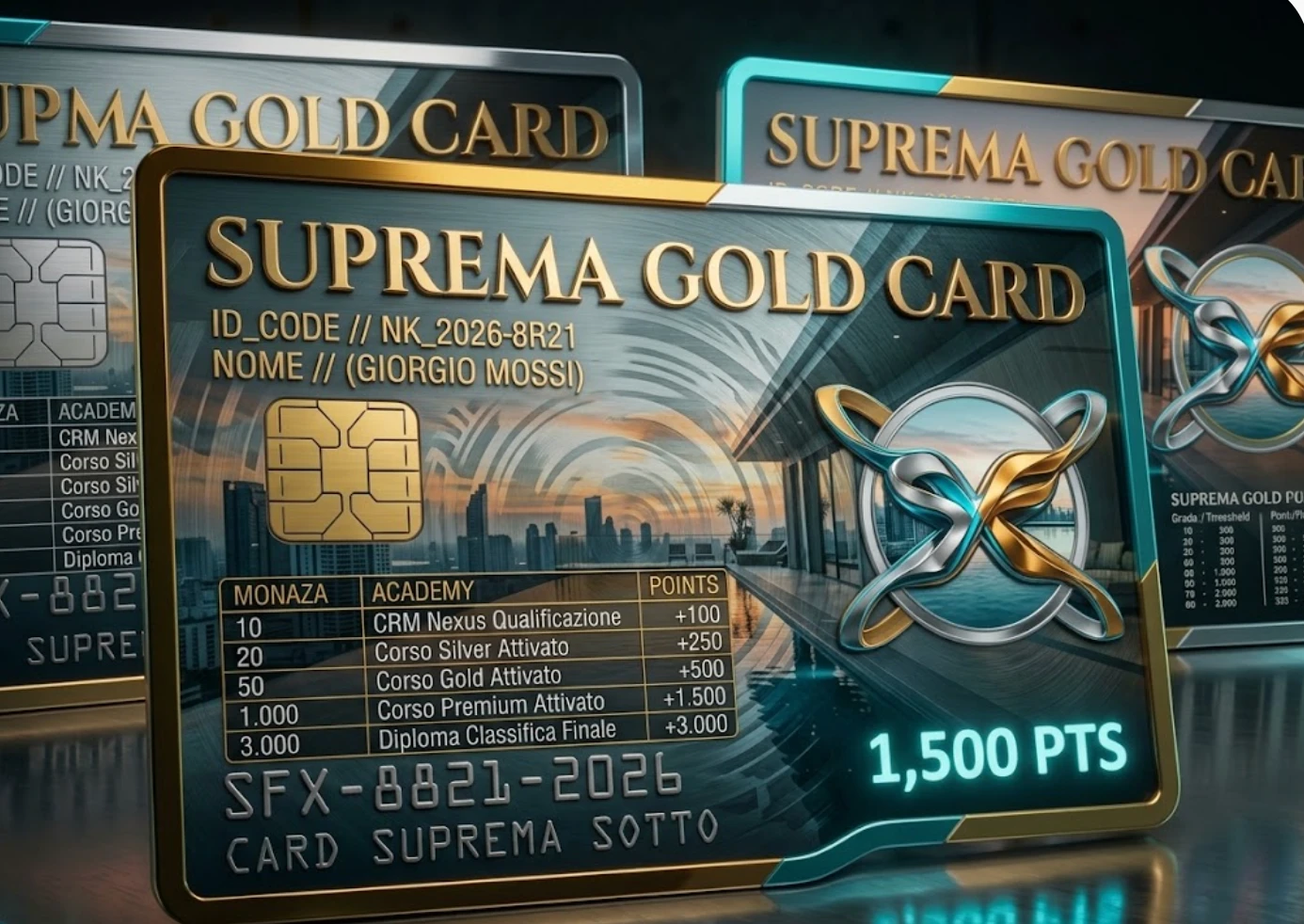
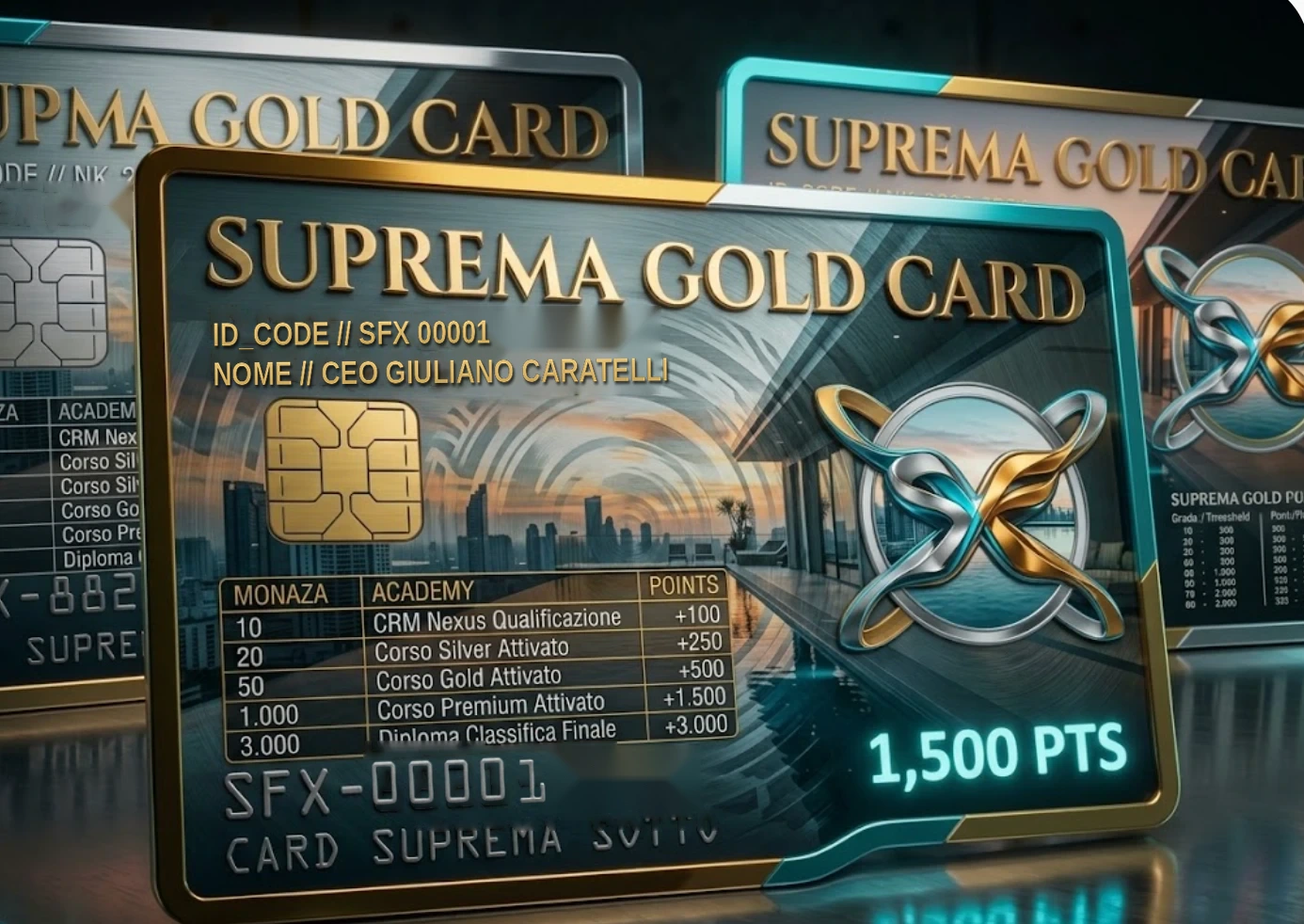
Versione B del primo schermo, storia completa, come funzionano i corsi, Gold Card con Tally
Claude-Session: https://claude.ai/code/session_019FZANnsANu3tLtzJ3nE7DX

Changed region(s): [[0.1551, 0.3055, 0.5274, 0.4277], [0.2792, 0.7943, 0.5584, 0.9165], [0.0, 0.1833, 0.1241, 0.2444]]

diff --git a/index.html b/index.html
@@ -325,6 +325,48 @@ body{top:0!important}
 body{padding-bottom:78px}
 .radio,.chatbox{bottom:calc(76px + env(safe-area-inset-bottom,0px))}
 }
+/* VERSIONE B: primo schermo riprogettato */
+body::before{animation-duration:14s}
+.bar .shine,.dock .shine{animation:none}
+.hb{display:grid;grid-template-columns:minmax(0,1.2fr) minmax(0,.8fr);gap:56px;max-width:1280px;margin:0 auto;padding:22px 40px 8px;align-items:center}
+.hb-left{min-width:0}
+.hb-eye{font-family:'JetBrains Mono',monospace;font-size:12px;letter-spacing:.18em;color:var(--gold-deep)}
+.hb .wordmark{font-size:clamp(36px,4.5vw,70px);line-height:1;margin:8px 0 6px;white-space:nowrap}
+.hb .tagline{margin:0;font-size:clamp(15px,1.5vw,22px)}
+.hb-lead{margin:16px 0 0;font-size:clamp(16px,1.35vw,20px);line-height:1.5;color:var(--ink);max-width:40ch}
+.hb-quote{margin:18px 0;padding:14px 18px;border-left:3px solid var(--gold);background:rgba(255,255,255,.6);border-radius:0 18px 18px 0;font-size:16px;line-height:1.5;max-width:56ch}
+.hb-quote .hl{display:block;color:var(--gold-deep);font-weight:800;margin-bottom:4px}
+.hb-quote cite{display:block;margin-top:8px;font-style:normal;font-family:'JetBrains Mono',monospace;font-size:12px;color:var(--muted)}
+.hb-quote cite button{background:none;border:0;padding:0;color:var(--gold-deep);font:inherit;font-weight:700;cursor:pointer;text-decoration:underline;text-underline-offset:3px}
+.hb-cta{display:flex;gap:12px;flex-wrap:wrap;margin:4px 0 16px}
+.btn.big{padding:15px 26px;font-size:16px}
+.btn.big2{padding:15px 22px;font-size:15px;cursor:pointer;font-family:inherit}
+.hb-trust{list-style:none;padding:0;margin:0;display:flex;gap:18px;flex-wrap:wrap;font-size:13px;font-weight:600;color:var(--ink)}
+.hb-trust li::before{content:'✓';color:#1F9D6E;font-weight:800;margin-right:6px}
+.hb-right{display:grid;gap:10px;justify-items:center;min-width:0}
+.hb-frame{position:relative;isolation:isolate;padding:4px;border-radius:32px;width:min(400px,100%)}
+.hb-frame::before{content:'';position:absolute;inset:0;border-radius:32px;z-index:-1;background:conic-gradient(from var(--a),var(--gold),var(--cyan),var(--emerald),var(--gold-light),var(--gold));animation:spin 16s linear infinite}
+.hb-frame .vwrap{border-radius:28px;overflow:hidden;height:auto;min-height:0}
+.hb-frame .vwrap video,.hb-frame video{display:block;width:100%;height:auto;aspect-ratio:4/5;object-fit:cover;border-radius:28px;background:#000}
+.hb-badge{position:absolute;right:-16px;bottom:-16px;width:88px;height:88px;border-radius:50%;object-fit:cover;border:3px solid var(--gold);box-shadow:0 10px 26px rgba(11,25,44,.35);z-index:2}
+.hb-courses{display:grid;grid-template-columns:repeat(3,minmax(0,1fr));gap:18px;max-width:1280px;margin:18px auto 0;padding:0 40px}
+.hb-courses .course{position:relative;isolation:isolate;overflow:hidden;min-height:150px;border:1.5px solid var(--gold);border-radius:24px;color:#fff;text-align:left;cursor:pointer;font:inherit;box-shadow:0 12px 30px rgba(11,25,44,.22);transition:transform .3s,box-shadow .3s}
+.hb-courses .course:hover,.hb-courses .course:focus-visible{transform:translateY(-4px);box-shadow:0 18px 40px rgba(11,25,44,.32),0 0 18px rgba(0,240,255,.35);outline:none}
+@media (max-width:1100px){.hb{gap:32px;padding:18px 24px}}
+@media (max-width:900px){.hb{grid-template-columns:1fr;padding:12px 14px}.hb-right{order:-1}.hb-courses{grid-template-columns:1fr;padding:0 14px}.hb-frame{width:min(360px,100%)}.hb-badge{width:64px;height:64px;right:-8px;bottom:-8px}.hb .wordmark{font-size:8.4vw}.hb-trust{gap:10px}}
+/* B2: logo in loop accanto al titolo */
+.hb-brand{display:flex;align-items:center;gap:20px;margin:10px 0 0}
+.hb-logo{position:relative;flex:none;width:clamp(96px,9.4vw,140px);aspect-ratio:1;border-radius:26px;overflow:hidden;isolation:isolate;box-shadow:0 10px 28px rgba(11,25,44,.28)}
+.hb-logo::before{content:'';position:absolute;inset:0;z-index:2;border-radius:26px;padding:3px;background:conic-gradient(from var(--a),var(--gold),var(--cyan),var(--emerald),var(--gold-light),var(--gold));-webkit-mask:linear-gradient(#000 0 0) content-box,linear-gradient(#000 0 0);-webkit-mask-composite:xor;mask-composite:exclude;animation:spin 16s linear infinite;pointer-events:none}
+.hb-logo .lg{position:absolute;inset:0;width:100%;height:100%;object-fit:cover;opacity:0;transition:opacity 1.2s ease;background:#0B192C}
+.hb-logo .lg.on{opacity:1}
+.hb-titles{min-width:0}
+.hb .hb-titles .wordmark{font-size:clamp(30px,4.05vw,64px);white-space:nowrap;margin:0 0 6px}
+.hb .hb-titles .tagline{font-size:clamp(13px,1.45vw,21px)}
+@media (max-width:900px){.hb-brand{gap:12px}.hb-logo{width:64px;border-radius:16px}.hb .hb-titles .wordmark{font-size:6.6vw}.hb .hb-titles .tagline{font-size:3.1vw}}
+.hb{grid-template-columns:minmax(0,1.3fr) minmax(0,.7fr)}
+.hb .hb-titles .wordmark{font-size:clamp(28px,3.75vw,54px);padding-right:.08em}
+@media (max-width:900px){.hb{grid-template-columns:1fr}.hb .hb-titles .wordmark{font-size:6.6vw}}
 </style>
 </head>
 <body>
@@ -344,43 +386,31 @@ body{padding-bottom:78px}
 
 <!-- SEC-00 -->
 <section class="sec" id="SEC-00" style="padding:0;border-bottom:none;background:none">
-  <div class="s00">
-    <div class="hero-left">
-      <div class="hero-head">
-        <div class="tag" style="font-size:12px;letter-spacing:.12em">DREAM DEFENSE SYSTEM // 2026</div>
-        <h1 class="wordmark">SUPREMA FUTURE X</h1>
-        <p class="tagline">INSIEME GUIDIAMO IL TUO DOMANI</p>
+  <div class="hb">
+    <div class="hb-left">
+      <div class="hb-eye">SUPREMA ACADEMY · COMMUNITY · CRESCITA PERSONALE</div>
+      <div class="hb-brand">
+        <div class="hb-logo" id="logoLoop" role="img" aria-label="Logo Suprema Future X"><img class="lg on" src="media/logo-globo.webp" alt=""><img class="lg" src="media/logo-studio.jpg" alt=""><img class="lg" src="media/alison-avatar.webp" alt=""><img class="lg" src="media/academy.webp" alt=""></div>
+        <div class="hb-titles"><h1 class="wordmark">SUPREMA FUTURE X</h1><p class="tagline">INSIEME GUIDIAMO IL TUO DOMANI</p></div>
       </div>
-      <div class="story" id="storia" aria-label="La storia del Founder"><div class="story-in">
-      <div class="story-media">
-        <div class="vwrap"><video id="ceoVid" src="media/ceo-video-intro.mp4" poster="media/ceo-video-poster.jpg" muted playsinline autoplay loop preload="auto" aria-label="Video di presentazione del CEO, clicca per vederlo dall'inizio con l'audio"></video><div class="vhint" id="vhint"><span>▶ Clicca sul video: riparte dall'inizio con l'audio</span></div><button class="vfull" id="vfull" type="button" aria-label="Guarda il video a schermo intero">⛶ Ingrandisci</button></div>
-        <div class="tag">Giuliano Caratelli · 1 minuto · puoi guardarlo a schermo intero</div>
-        <a class="btn solid mob-cta" href="https://tally.so/r/xVM4AJ" target="_blank" rel="noopener" data-conf>Aderisci alla conferenza con il CEO</a>
-      </div>
-      <div class="story-text">
-        <div class="story-eye">LA STORIA · IL FOUNDER</div>
-        <p class="ln">Sono partito dal basso, sul campo. Nessun capitale, nessuna scorciatoia. Solo notti insonni e il rifiuto di arrendermi.</p>
-        <p class="ln">Dopo mesi di lavoro ho costruito qualcosa di mio. <span class="hl">L'ho forgiato nel fuoco, trasformando ogni porta chiusa in un patto d'acciaio.</span></p>
-        <p class="ln">Non cercavo una promessa facile: volevo una fortezza. <span class="hl">Un luogo dove il merito non deve chiedere permesso</span> e il sacrificio diventa potere.</p>
-        <p class="ln">Se cerchi una scusa, sei nel posto sbagliato. Ma se hai davvero fame, quella vera, e vuoi cambiare le regole del gioco…</p>
-        <p class="ln fin">…allora non sei arrivato qui per caso. Le porte della fortezza sono aperte. Il tuo domani comincia adesso, e lo scriviamo insieme.</p>
-        <p class="ln sig">— Giuliano Caratelli, Founder e CEO</p>
-        <a class="btn solid" href="https://tally.so/r/xVM4AJ" target="_blank" rel="noopener" data-conf>Aderisci alla conferenza con il CEO</a>
-      </div>
-    </div></div>
+      <p class="hb-lead">Percorsi di formazione da 90 a 150 giorni, una community che ti sostiene e il colloquio diretto con il Founder.</p>
+      <blockquote class="hb-quote">
+        <span class="hl">«L'ho forgiato nel fuoco, trasformando ogni porta chiusa in un patto d'acciaio.»</span>
+        <span class="hl">«Un luogo dove il merito non deve chiedere permesso.»</span>
+        <cite>— Giuliano Caratelli, Founder e CEO · <button type="button" data-sheet="founder">Leggi la storia completa →</button></cite>
+      </blockquote>
+      <div class="hb-cta"><a class="btn solid big" href="https://tally.so/r/xVM4AJ" target="_blank" rel="noopener" data-conf>Aderisci alla conferenza con il CEO</a><button class="btn big2" type="button" data-sheet="academy">Scopri i percorsi</button></div>
+      
     </div>
-    <div class="hero-right"><div class="medal" id="logoLoop" role="img" aria-label="Logo Suprema Future X"><img class="lg on" src="media/logo-globo.webp" alt=""><img class="lg" src="media/logo-studio.jpg" alt=""><img class="lg" src="media/alison-avatar.webp" alt=""><img class="lg" src="media/banner-future.jpg" alt=""><img class="lg" src="media/ceo-alison.webp" alt=""></div>
-      <div class="car" id="car" aria-roledescription="carosello" aria-label="Suprema Academy">
-        <div class="car-track">
-          <button type="button" class="slide on" data-sheet="academy"><img src="media/academy.webp" alt="Suprema Academy"><span class="slab">Suprema Academy · scopri i percorsi</span></button>
-          <button type="button" class="slide course c-gold" data-sheet="corso-gold"><span class="ce">SUPREMA ACADEMY</span><span class="cn">Corso Gold</span><span class="cm">90 giorni · 4 moduli</span><span class="ct">Metodo di studio · Community · Crescita personale</span><span class="cgo">Scopri il percorso →</span></button>
-          <button type="button" class="slide course c-prem" data-sheet="corso-premium"><span class="ce">SUPREMA ACADEMY</span><span class="cn">Corso Premium</span><span class="cm">120 giorni · 6 moduli</span><span class="ct">Networking etico · E-commerce di base</span><span class="cgo">Scopri il percorso →</span></button>
-          <button type="button" class="slide course c-ent" data-sheet="corso-enterprise"><span class="ce">SUPREMA ACADEMY</span><span class="cn">Corso Enterprise</span><span class="cm">150 giorni · 8 moduli</span><span class="ct">Networking avanzato · E-commerce · Esame finale</span><span class="cgo">Scopri il percorso →</span></button>
-          <button type="button" class="slide" data-sheet="ecosistema"><img src="media/ecosistema.webp" alt="L'ecosistema Suprema Future X"><span class="slab">L'ecosistema Suprema Future X</span></button>
-        </div>
-        <div class="car-dots" id="carDots"></div>
-      </div>
+    <div class="hb-right">
+      <div class="hb-frame"><div class="vwrap"><video id="ceoVid" src="media/ceo-video-intro.mp4" poster="media/ceo-video-poster.jpg" muted playsinline autoplay loop preload="auto" aria-label="Video di presentazione del CEO, clicca per vederlo dall'inizio con l'audio"></video><div class="vhint" id="vhint"><span>▶ Clicca sul video: riparte dall'inizio con l'audio</span></div><button class="vfull" id="vfull" type="button" aria-label="Guarda il video a schermo intero">⛶ Ingrandisci</button></div><img class="hb-badge" src="media/logo-globo.webp" alt=""></div>
+      <div class="tag">Giuliano Caratelli · 1 minuto · clicca per l'audio</div>
     </div>
+  </div>
+  <div class="hb-courses">
+    <button type="button" class="course c-gold" data-sheet="corso-gold"><span class="ce">SUPREMA ACADEMY</span><span class="cn">Corso Gold</span><span class="cm">90 giorni · 4 moduli</span><span class="ct">Metodo di studio · Community · Crescita personale</span><span class="cgo">Scopri il percorso →</span></button>
+    <button type="button" class="course c-prem" data-sheet="corso-premium"><span class="ce">SUPREMA ACADEMY</span><span class="cn">Corso Premium</span><span class="cm">120 giorni · 6 moduli</span><span class="ct">Networking etico · E-commerce di base</span><span class="cgo">Scopri il percorso →</span></button>
+    <button type="button" class="course c-ent" data-sheet="corso-enterprise"><span class="ce">SUPREMA ACADEMY</span><span class="cn">Corso Enterprise</span><span class="cm">150 giorni · 8 moduli</span><span class="ct">Networking avanzato · E-commerce · Esame finale</span><span class="cgo">Scopri il percorso →</span></button>
   </div>
 </section>
 
@@ -462,8 +492,8 @@ body{padding-bottom:78px}
 <section class="sec" id="SEC-06">
   <div class="sec-id">SEC-06 · SUPREMA GOLD CARD</div>
   <div class="grid3 reveal">
-    <div class="gcard"><div class="tag" style="color:#2b2208">SUPREMA GOLD CARD</div><div style="font-size:22px;font-weight:800;margin-top:26px">Nome del titolare</div><div class="tag" style="color:#2b2208;margin-top:6px">Punti: 0</div></div>
-    <div class="glow"><p style="color:var(--muted);line-height:1.6;margin:0">La card è legata al tuo profilo e ai tuoi acquisti. Punti legati ai propri acquisti, spiegati nel regolamento. Nessun bonus per inviti.</p></div>
+    <div class="gcard"><div class="tag" style="color:#2b2208">SUPREMA GOLD CARD</div><div style="font-size:22px;font-weight:800;margin-top:26px">CEO Giuliano Caratelli</div><div class="tag" style="color:#2b2208;margin-top:6px">ID_CODE // SFX 00001</div></div>
+    <div class="glow"><p style="color:var(--muted);line-height:1.6;margin:0">La card è legata al tuo profilo e ai tuoi acquisti. Punti legati ai propri acquisti, spiegati nel regolamento. Nessun bonus per inviti.</p><div style="display:flex;gap:10px;flex-wrap:wrap;margin-top:14px"><a class="btn solid" href="https://tally.so/r/gbdRgM" target="_blank" rel="noopener">Richiedi la Suprema Gold Card</a><button class="btn" type="button" data-sheet="goldcard">Come funziona</button></div></div>
     <div style="display:grid;gap:14px"><div class="mbox" style="--w:3in"><div class="sq"><img src="media/gold-card.webp" alt="Rendering della Suprema Gold Card" loading="lazy"></div><div class="tag" style="text-align:center">Suprema Gold Card</div><div class="mctrl"><button class="btn" type="button" data-act="zl">Riduci</button><span class="tag" data-lbl>3 in</span><button class="btn" type="button" data-act="zm">Ingrandisci</button></div></div><!-- in attesa del file --></div>
   </div>
 </section>
@@ -602,13 +632,14 @@ f.addEventListener('click',e=>{e.stopPropagation();const r=v.requestFullscreen||
 (function(){
 const TALLY='https://tally.so/r/xVM4AJ';
 const conf='<a class="btn solid" href="'+TALLY+'" target="_blank" rel="noopener">Aderisci alla conferenza con il CEO</a>';
-const course=(name,days,tally,intro,learn,mods)=>({eye:'SUPREMA ACADEMY · PERCORSO',title:name,body:'<p>'+intro+'</p><p><b>Durata:</b> '+days+' giorni, dalla data di iscrizione.</p><p><b>Cosa impari</b></p><ul>'+learn.map(x=>'<li>'+x+'</li>').join('')+'</ul><p><b>Moduli</b></p><ul class="mods">'+mods.map(m=>'<li>'+m[0]+'<span>'+m[1]+'</span></li>').join('')+'</ul><p class="sheet-note">Ogni modulo ha lezioni e un quiz. Voti e attestati li assegna il CEO. Nessun risultato economico è garantito.</p><div class="sheet-cta"><a class="btn solid" href="'+tally+'" target="_blank" rel="noopener">Iscriviti al percorso</a>'+conf+'</div>'});
+const course=(name,days,tally,intro,learn,mods)=>({eye:'SUPREMA ACADEMY · PERCORSO',title:name,body:'<p>'+intro+'</p><p><b>Durata:</b> '+days+' giorni, dalla data di iscrizione.</p><p><b>Cosa impari</b></p><ul>'+learn.map(x=>'<li>'+x+'</li>').join('')+'</ul><p><b>Moduli</b></p><ul class="mods">'+mods.map(m=>'<li>'+m[0]+'<span>'+m[1]+'</span></li>').join('')+'</ul><p><b>Come funziona il percorso</b></p><ol><li>Compili la scheda di iscrizione del percorso.</li><li>La Presidenza conferma l\'iscrizione e ti invia le istruzioni di accesso.</li><li>Segui i moduli settimana per settimana: lezioni, compiti e un quiz alla fine di ogni modulo.</li><li>Concludi con la verifica finale: voti e attestato li assegna il CEO.</li></ol><p class="sheet-note">Recesso entro 14 giorni dall\'acquisto per i consumatori. Nessun risultato economico è garantito e nessun punto o compenso è legato al reclutamento di altri iscritti. Tutti i dettagli sono nel regolamento.</p><div class="sheet-cta"><a class="btn solid" href="'+tally+'" target="_blank" rel="noopener">Compila la scheda di iscrizione</a>'+conf+'</div>'});
 const SH={
  networking:{eye:'IL PILASTRO',title:'Networking',tip:'Relazioni professionali vere, costruite su fiducia e trasparenza.',body:'<p>Il networking in Suprema Future X significa costruire relazioni professionali reali: conoscere persone, scambiare competenze, nascere collaborazioni.</p><p><b>Cosa fa per te</b></p><ul><li>Ti mette in contatto con persone che hanno i tuoi stessi obiettivi.</li><li>Ti insegna a presentarti, ascoltare e restituire valore.</li><li>Ti aiuta a costruire accordi chiari, scritti e trasparenti.</li></ul><p><b>Le nostre regole</b>: niente pressioni, niente promesse di guadagno, nessun compenso legato al reclutamento di altri iscritti.</p><div class="sheet-cta">'+conf+'</div>'},
  community:{eye:'IL PILASTRO',title:'Community',tip:'Un gruppo che si sostiene, con regole chiare e moderazione.',body:'<p>La community è il luogo dove gli iscritti si confrontano, si aiutano e crescono insieme.</p><p><b>Cosa fa per te</b></p><ul><li>Ti dà un gruppo con cui condividere dubbi, progressi e risultati.</li><li>Ti offre confronto con tutor e altri membri.</li><li>Funziona con un regolamento uguale per tutti e una moderazione attenta.</li></ul><p>Rispetto e trasparenza sono la base: ogni conflitto si segnala al tutor.</p><div class="sheet-cta">'+conf+'</div>'},
  formazione:{eye:'IL PILASTRO',title:'Formazione',tip:'I percorsi della Suprema Academy: lezioni, quiz e verifiche.',body:'<p>La formazione passa dalla <b>Suprema Academy</b>, con tre percorsi: Gold (90 giorni), Premium (120 giorni) ed Enterprise (150 giorni).</p><p><b>Cosa fa per te</b></p><ul><li>Lezioni organizzate per moduli e settimane.</li><li>Quiz a fine modulo e verifica finale.</li><li>Strumenti pratici: Classroom, Drive, Fogli.</li></ul><div class="sheet-cta"><button class="btn solid" type="button" data-sheet="academy">Scopri i percorsi</button>'+conf+'</div>'},
  crescita:{eye:'IL PILASTRO',title:'Crescita personale',tip:'Obiettivi misurabili, abitudini e revisioni periodiche.',body:'<p>Crescere significa darsi una direzione e verificarla nel tempo.</p><p><b>Cosa fa per te</b></p><ul><li>Ti aiuta a fissare obiettivi misurabili, con indicatori e scadenze.</li><li>Ti allena alla costanza con abitudini piccole e ripetute.</li><li>Ti accompagna con revisioni settimanali e mensili.</li></ul><p>I risultati dipendono dall\'impegno di ciascuno.</p><div class="sheet-cta">'+conf+'</div>'},
  leadership:{eye:'IL PILASTRO',title:'Leadership',tip:'Guidare con l\'esempio: responsabilità, decisioni e comunicazione.',body:'<p>Leadership vuol dire prendersi la responsabilità di guidare: prima se stessi, poi un progetto, poi un gruppo.</p><p><b>Cosa fa per te</b></p><ul><li>Ti insegna a decidere con criterio e a comunicare con chiarezza.</li><li>Ti allena a dare l\'esempio con coerenza.</li><li>Ti prepara a coordinare persone con rispetto e trasparenza.</li></ul><p>È il filo che unisce networking, community, formazione e crescita personale.</p><div class="sheet-cta">'+conf+'</div>'},
+ goldcard:{eye:'SUPREMA GOLD CARD',title:'La Suprema Gold Card',body:'<img src="media/gold-card.webp" alt="Suprema Gold Card"><p>La card è personale e legata al tuo profilo. I punti maturano solo sui tuoi acquisti personali, secondo le regole del regolamento.</p><p class="sheet-note">Nessun bonus per inviti e nessun punto legato al reclutamento di altre persone. I punti non sono convertibili in denaro.</p><div class="sheet-cta"><a class="btn solid" href="https://tally.so/r/gbdRgM" target="_blank" rel="noopener">Richiedi la Suprema Gold Card</a>'+conf+'</div>'},
  academy:{eye:'SUPREMA ACADEMY',title:'I percorsi',body:'<img src="media/academy.webp" alt="Suprema Academy"><p>Tre percorsi, dal più essenziale al più completo. Apri un percorso per vedere programma e moduli.</p><div class="sheet-cta"><button class="btn" type="button" data-sheet="corso-gold">Corso Gold · 90 giorni</button><button class="btn" type="button" data-sheet="corso-premium">Corso Premium · 120 giorni</button><button class="btn" type="button" data-sheet="corso-enterprise">Corso Enterprise · 150 giorni</button></div>'},
  'corso-gold':course('Corso Gold',90,'https://tally.so/r/je658E','Il percorso base: metodo di studio, community e crescita personale.',["Metodo di studio dell'Academy",'Regole e partecipazione nella community','Obiettivi personali e abitudini','Strumenti Google: Classroom, Drive e Fogli'],[['Academy: fondamenti','settimane 1-3'],['Community: regole e partecipazione','settimane 4-6'],['Crescita personale: obiettivi','settimane 7-10'],['Strumenti e verifica finale','settimane 11-13']]),
  'corso-premium':course('Corso Premium',120,'https://tally.so/r/xVMez9','Il percorso intermedio: aggiunge networking etico ed e-commerce di base.',["Metodo di studio dell'Academy",'Regole e moderazione nella community','Obiettivi misurabili e abitudini','Networking: basi etiche e relazioni professionali','E-commerce: vendita online e recesso','Strumenti Google e progetto di sintesi'],[['Academy: fondamenti','settimane 1-3'],['Community: regole e moderazione','settimane 4-5'],['Crescita personale: obiettivi','settimane 6-8'],['Networking: basi etiche','settimane 9-11'],['E-commerce: basi','settimane 12-14'],['Verifica finale e progetto','settimane 15-17']]),
@@ -616,9 +647,10 @@ const SH={
  ecosistema:{eye:'SUPREMA FUTURE X',title:"L'ecosistema",body:'<img src="media/ecosistema.webp" alt="Ecosistema Suprema Future X"><p>Al centro c\'è Suprema Future X. Intorno, le aree che lavorano insieme: Academy, Community, Partner, rete globale e negozi digitali.</p><div class="sheet-cta"><button class="btn" type="button" data-sheet="academy">Suprema Academy</button>'+conf+'</div>'},
  'storia-sfx':{eye:'CHI SIAMO',title:'La storia di Suprema Future X',body:'<img src="media/banner-future.jpg" alt="Suprema Future X"><p>Suprema Future X nasce a Colleferro nell\'ottobre 2026. Unisce Academy, formazione, coaching, crescita personale e professionale e networking digitale.</p><p>È un\'attività svolta da persone indipendenti. I risultati dipendono dall\'impegno di ciascuno e non sono garantiti.</p><div class="sheet-cta">'+conf+'</div>'},
  dove:{eye:'CHI SIAMO',title:'Dove ci troviamo',body:'<p><b>Sede legale</b><br>Via Mazzini 47, 00030 Montelanico (RM)</p><p><b>Sezione operativa</b><br>Colleferro (RM)</p><p><b>Contatti</b><br>segreteria@supremafuturex.com</p><p class="sheet-note">I colloqui con il Founder si svolgono su Google Meet.</p><div class="sheet-cta"><a class="btn" href="https://www.google.com/maps/search/?api=1&query=Via+Mazzini+47+Montelanico" target="_blank" rel="noopener">Apri in Google Maps</a>'+conf+'</div>'},
- founder:{eye:'CHI SIAMO',title:'La storia del Founder',body:'<img src="media/ceo-alison.webp" alt="Giuliano Caratelli e Alison"><p>Sono partito dal basso, sul campo. Nessun capitale, nessuna scorciatoia. Solo notti insonni e il rifiuto di arrendermi.</p><p>Dopo mesi di lavoro ho costruito qualcosa di mio. <b>L\'ho forgiato nel fuoco, trasformando ogni porta chiusa in un patto d\'acciaio.</b></p><p>Non cercavo una promessa facile: volevo una fortezza. <b>Un luogo dove il merito non deve chiedere permesso</b> e il sacrificio diventa potere.</p><p>— Giuliano Caratelli, Founder e CEO</p><div class="sheet-cta">'+conf+'</div>'},
+ founder:{eye:'CHI SIAMO',title:'La storia del Founder',body:'<img src="media/ceo-alison.webp" alt="Giuliano Caratelli e Alison"><p>Sono partito dal basso, sul campo. Nessun capitale, nessuna scorciatoia. Solo notti insonni e il rifiuto di arrendermi.</p><p>Dopo mesi di lavoro ho costruito qualcosa di mio. <b>L\'ho forgiato nel fuoco, trasformando ogni porta chiusa in un patto d\'acciaio.</b></p><p>Non cercavo una promessa facile: volevo una fortezza. <b>Un luogo dove il merito non deve chiedere permesso</b> e il sacrificio diventa potere.</p><p>Se cerchi una scusa, sei nel posto sbagliato. Ma se hai davvero fame, quella vera, e vuoi cambiare le regole del gioco…</p><p style="font-size:19px;font-weight:800;color:#B8860B">…allora non sei arrivato qui per caso. Le porte della fortezza sono aperte. Il tuo domani comincia adesso, e lo scriviamo insieme.</p><p>— Giuliano Caratelli, Founder e CEO</p><div class="sheet-cta">'+conf+'</div>'},
  alison:{eye:'CHI SIAMO',title:'La storia di Alison',body:'<img src="media/alison-avatar.webp" alt="Alison" style="max-width:260px;margin-inline:auto"><p>Alison è l\'assistente IA di Suprema Future X. Lo dichiara sempre: non è una persona.</p><p>Risponde alle domande più frequenti, ti indica il percorso giusto e ti accompagna verso la conferenza con il CEO. Non approva pagamenti e non prende decisioni al posto della Presidenza.</p><div class="sheet-cta"><button class="btn" type="button" id="sheetChat">Parla con Alison</button>'+conf+'</div>'}
 };
+['corso-gold','corso-premium','corso-enterprise'].forEach((k,i)=>{const p=document.getElementById('tp'+i);if(p&&SH[k])p.innerHTML='<h2 style="font-size:24px">'+SH[k].title+'</h2><div class="sheet-body">'+SH[k].body+'</div>'});
 const wrap=document.getElementById('sheetWrap'),sh=document.getElementById('sheet'),tEl=document.getElementById('sheetTimer');
 let timer=null,tick=null,left=15,inside=false;
 function stopT(){clearTimeout(timer);clearInterval(tick);tEl.textContent=inside?'Il foglio resta aperto: chiudi con la ✕':''}
@@ -646,10 +678,10 @@ if(whoBtn){whoBtn.addEventListener('click',e=>{e.stopPropagation();const o=whoPa
  document.addEventListener('click',e=>{if(!whoPanel.contains(e.target)&&!whoBtn.contains(e.target))closeWho()})}
 // carosello
 const sl=[...document.querySelectorAll('#car .slide')],dots=document.getElementById('carDots');let ci=0,hold=false;
-sl.forEach((s,i)=>{const d=document.createElement('button');d.type='button';d.setAttribute('aria-label','Mostra '+(i+1));d.onclick=()=>go(i);dots.appendChild(d)});
+if(sl.length)sl.forEach((s,i)=>{const d=document.createElement('button');d.type='button';d.setAttribute('aria-label','Mostra '+(i+1));d.onclick=()=>go(i);dots.appendChild(d)});
 function go(i){sl[ci].classList.remove('on');dots.children[ci].classList.remove('on');ci=(i+sl.length)%sl.length;sl[ci].classList.add('on');dots.children[ci].classList.add('on')}
-go(0);const car=document.getElementById('car');car.addEventListener('mouseenter',()=>hold=true);car.addEventListener('mouseleave',()=>hold=false);
-setInterval(()=>{if(!hold)go(ci+1)},4500);
+if(sl.length){go(0);const car=document.getElementById('car');car.addEventListener('mouseenter',()=>hold=true);car.addEventListener('mouseleave',()=>hold=false);
+setInterval(()=>{if(!hold)go(ci+1)},4500);}
 // traduttore
 const sel=document.getElementById('langSel');sel.classList.add('notranslate');
 const g=document.createElement('div');g.id='gtEl';document.body.appendChild(g);
